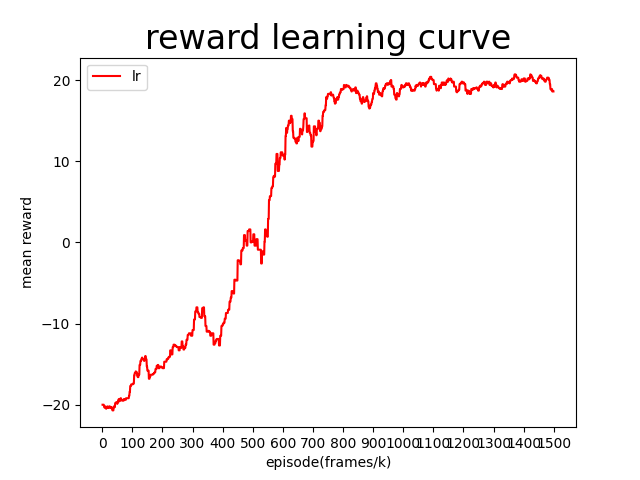
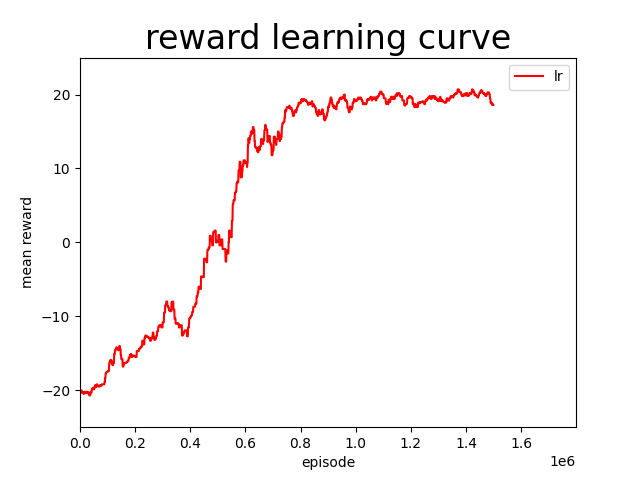
fix: plot training

diff --git a/src/utils/plotTraining.py b/src/utils/plotTraining.py
@@ -1,42 +1,35 @@
 import csv
 import os
 
-import numpy as np
 from IPython.display import clear_output
 import matplotlib.pyplot as plt
-from matplotlib import ticker
-from matplotlib.pyplot import MultipleLocator
 
 from src.config.config import TRAIN_LOG_PATH, TRAIN_LOG_FILE, IMG_PATH, TRAIN_LOG_FILE_LR, IMG_FILE, IMG_FILE_LR
 
 
 # show or save tht plt of the train
-def plot_training(episodes_list, rewards_list, show_index=0, is_save=True, is_compare=True):
+def plot_training(episodes_list, rewards_list, show_index=0, is_save=False, is_compare=True):
     clear_output(True)
     # title and label
     plt.title('reward learning curve', fontsize=24)
-    plt.xlabel("episode(frames/k)")
+    plt.xlabel("episode")
     plt.ylabel("mean reward")
 
     # 坐标刻度设置
-    x_major_locator = MultipleLocator(100)
-    y_major_locator = MultipleLocator(10)
-    ax = plt.gca()
-    ax.xaxis.set_major_locator(x_major_locator)
-    ax.xaxis.set_major_formatter(ticker.FormatStrFormatter('%d'))
-    ax.yaxis.set_major_locator(y_major_locator)
-
-    # fig, ax = plt.subplots()
+    plt.xlim(0, episodes_list[0][-1] * 1.2)
+    plt.ylim(-25, 25)
     # set the plot
     config_list = [('blue', 'origin', IMG_FILE), ('red', 'lr', IMG_FILE_LR)]
     plt.plot(episodes_list[show_index], rewards_list[show_index],
              color=config_list[show_index][0], label=config_list[show_index][1])
+    compare_str = ""
     if is_compare:
         plt.plot(episodes_list[1 - show_index], rewards_list[1 - show_index],
-                 color=config_list[1-show_index][0], label=config_list[1-show_index][1])
+                 color=config_list[1 - show_index][0], label=config_list[1 - show_index][1])
+        compare_str = "_compare"
     plt.legend()
     if is_save:
-        plt.savefig(os.path.join(IMG_PATH, config_list[show_index][2]))
+        plt.savefig(os.path.join(IMG_PATH, config_list[show_index][2] + compare_str))
     plt.show()
 
 
@@ -50,7 +43,7 @@ def save_plt_reward_frame():
     e_lr, r_lr = get_episodes_rewards(TRAIN_LOG_FILE_LR)
     episodes_list.append(e_lr)
     rewards_list.append(r_lr)
-    plot_training(episodes_list, rewards_list, show_index=0, is_compare=False)
+    plot_training(episodes_list, rewards_list, show_index=0, is_save=False, is_compare=False)
 
 
 def get_episodes_rewards(file_str):
@@ -61,7 +54,6 @@ def get_episodes_rewards(file_str):
         title_list = next(csv_reader)  # 读取第一行每一列的标题，或者略过第一行有问题的数据
         for row in csv_reader:  # 将csv 文件中的数据保存到birth_data中
             episode = row[0]
-            episode = int(episode) / 1000
             reward = row[2]
             episode_list.append(episode)
             reward_list.append(reward)

diff --git a/src/config/config.py b/src/config/config.py
@@ -14,14 +14,11 @@ LEARNING_RATE = 2e-4
 MAX_BUFF = 100000
 UPDATE_TAR_INTERVAL = 1000
 BATCH_SIZE = 32
+LEARNING_START = 10000
+
+# config for the log or file path
 PRINT_INTERVAL = 1000
 LOG_INTERVAL = 1000
-LEARNING_START = 10000
-WIN_REWARD = 18  # Pong-v4
-WIN_BREAK = True
-
-# 配置
-IS_TRAIN = True
 ENV_ID = 'PongNoFrameskip-v4'  # only use in no frameskip environment
 # model save path
 TEMP_PATH = os.path.join("model", "temp")

diff --git a/main.py b/main.py
@@ -4,6 +4,6 @@ from src.utils.dir_processor import create_dir
 from src.utils.plotTraining import save_plt_reward_frame
 
 if __name__ == '__main__':
-    # create_dir([TRAIN_LOG_PATH, VIDEO_PATH, TEMP_PATH, RESULT_PATH, IMG_PATH])
-    # train()
+    create_dir([TRAIN_LOG_PATH, VIDEO_PATH, TEMP_PATH, RESULT_PATH, IMG_PATH])
+    train()
     save_plt_reward_frame()
